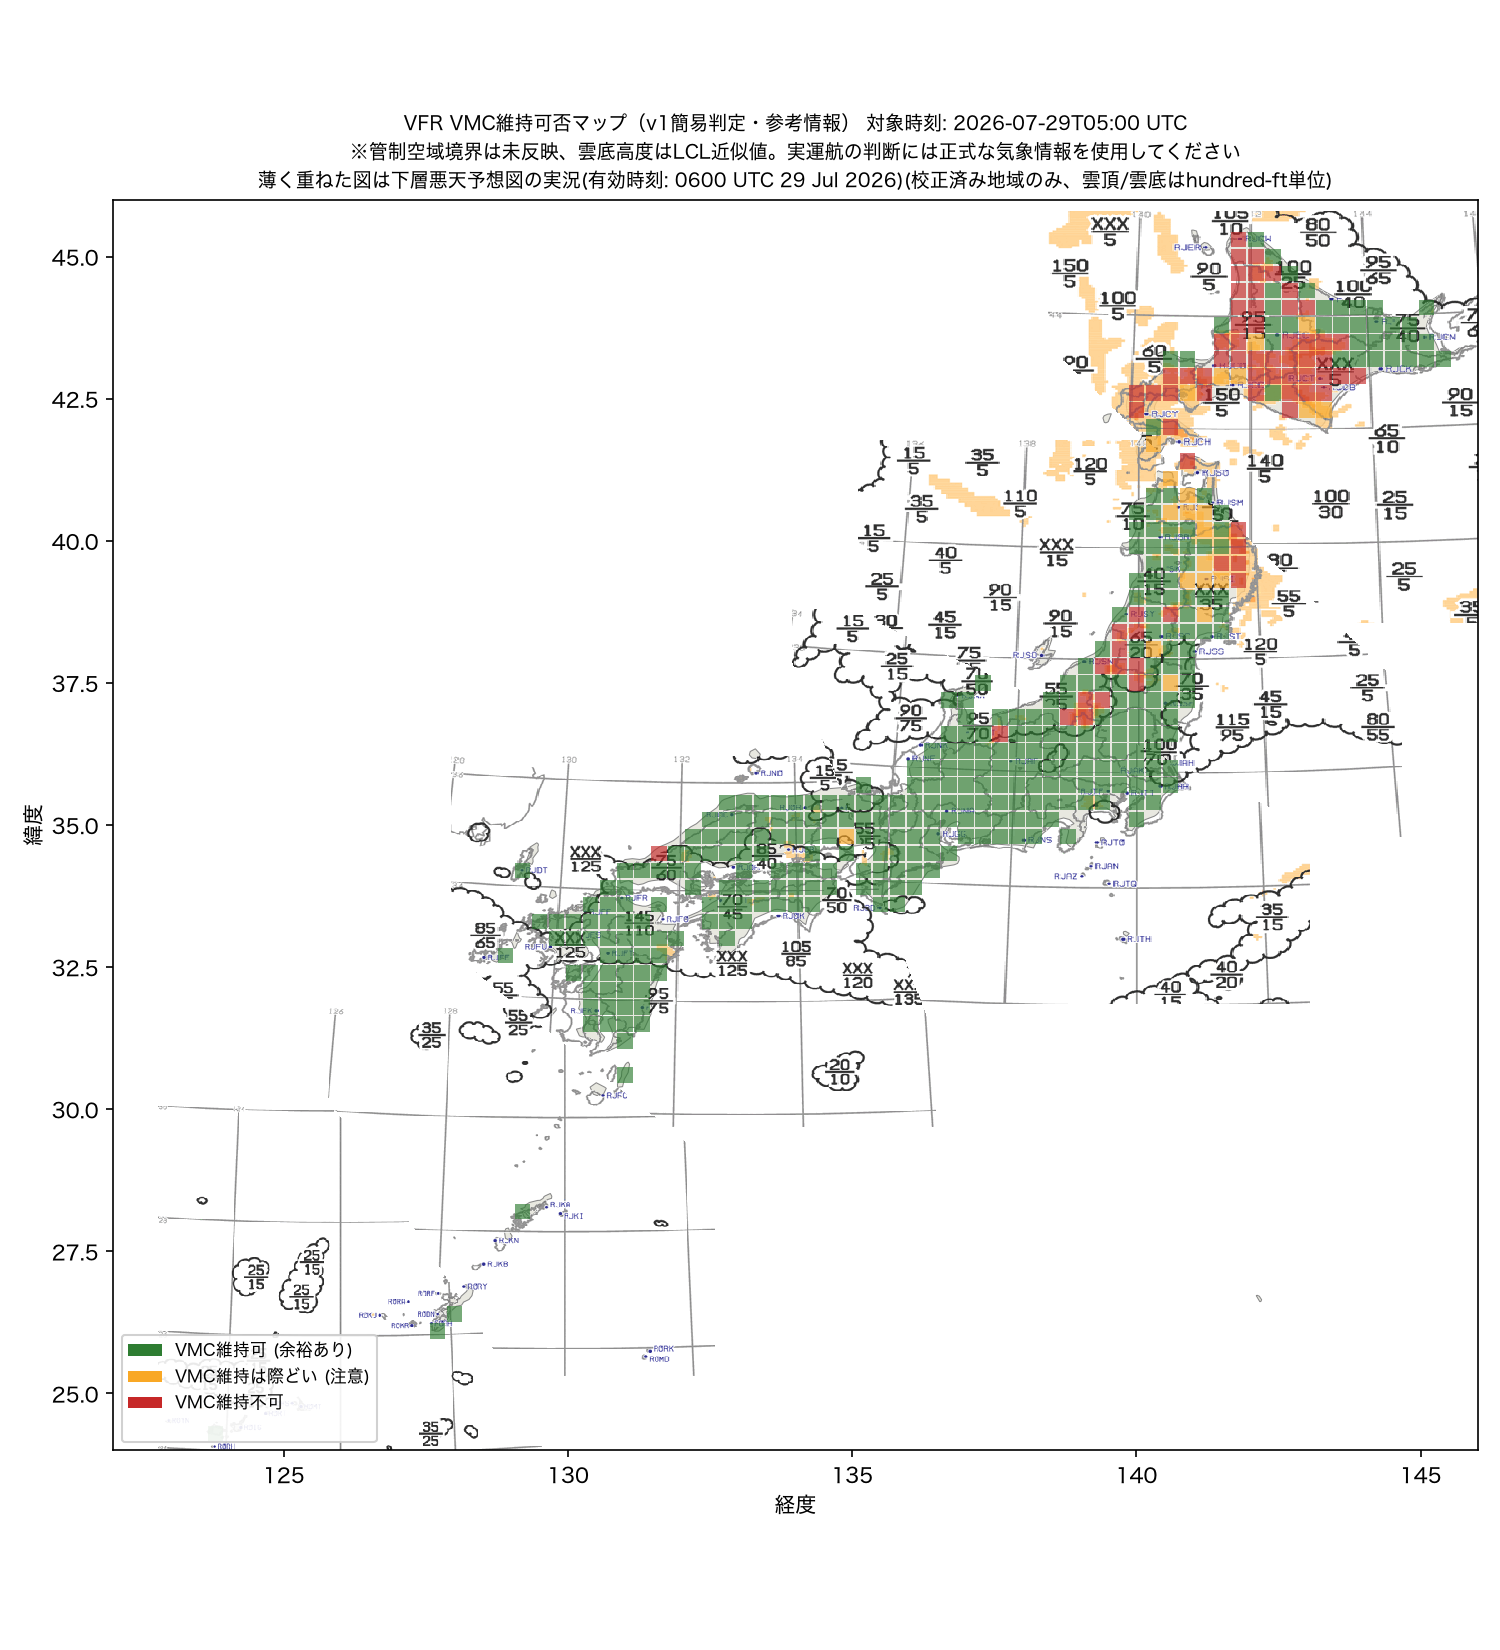
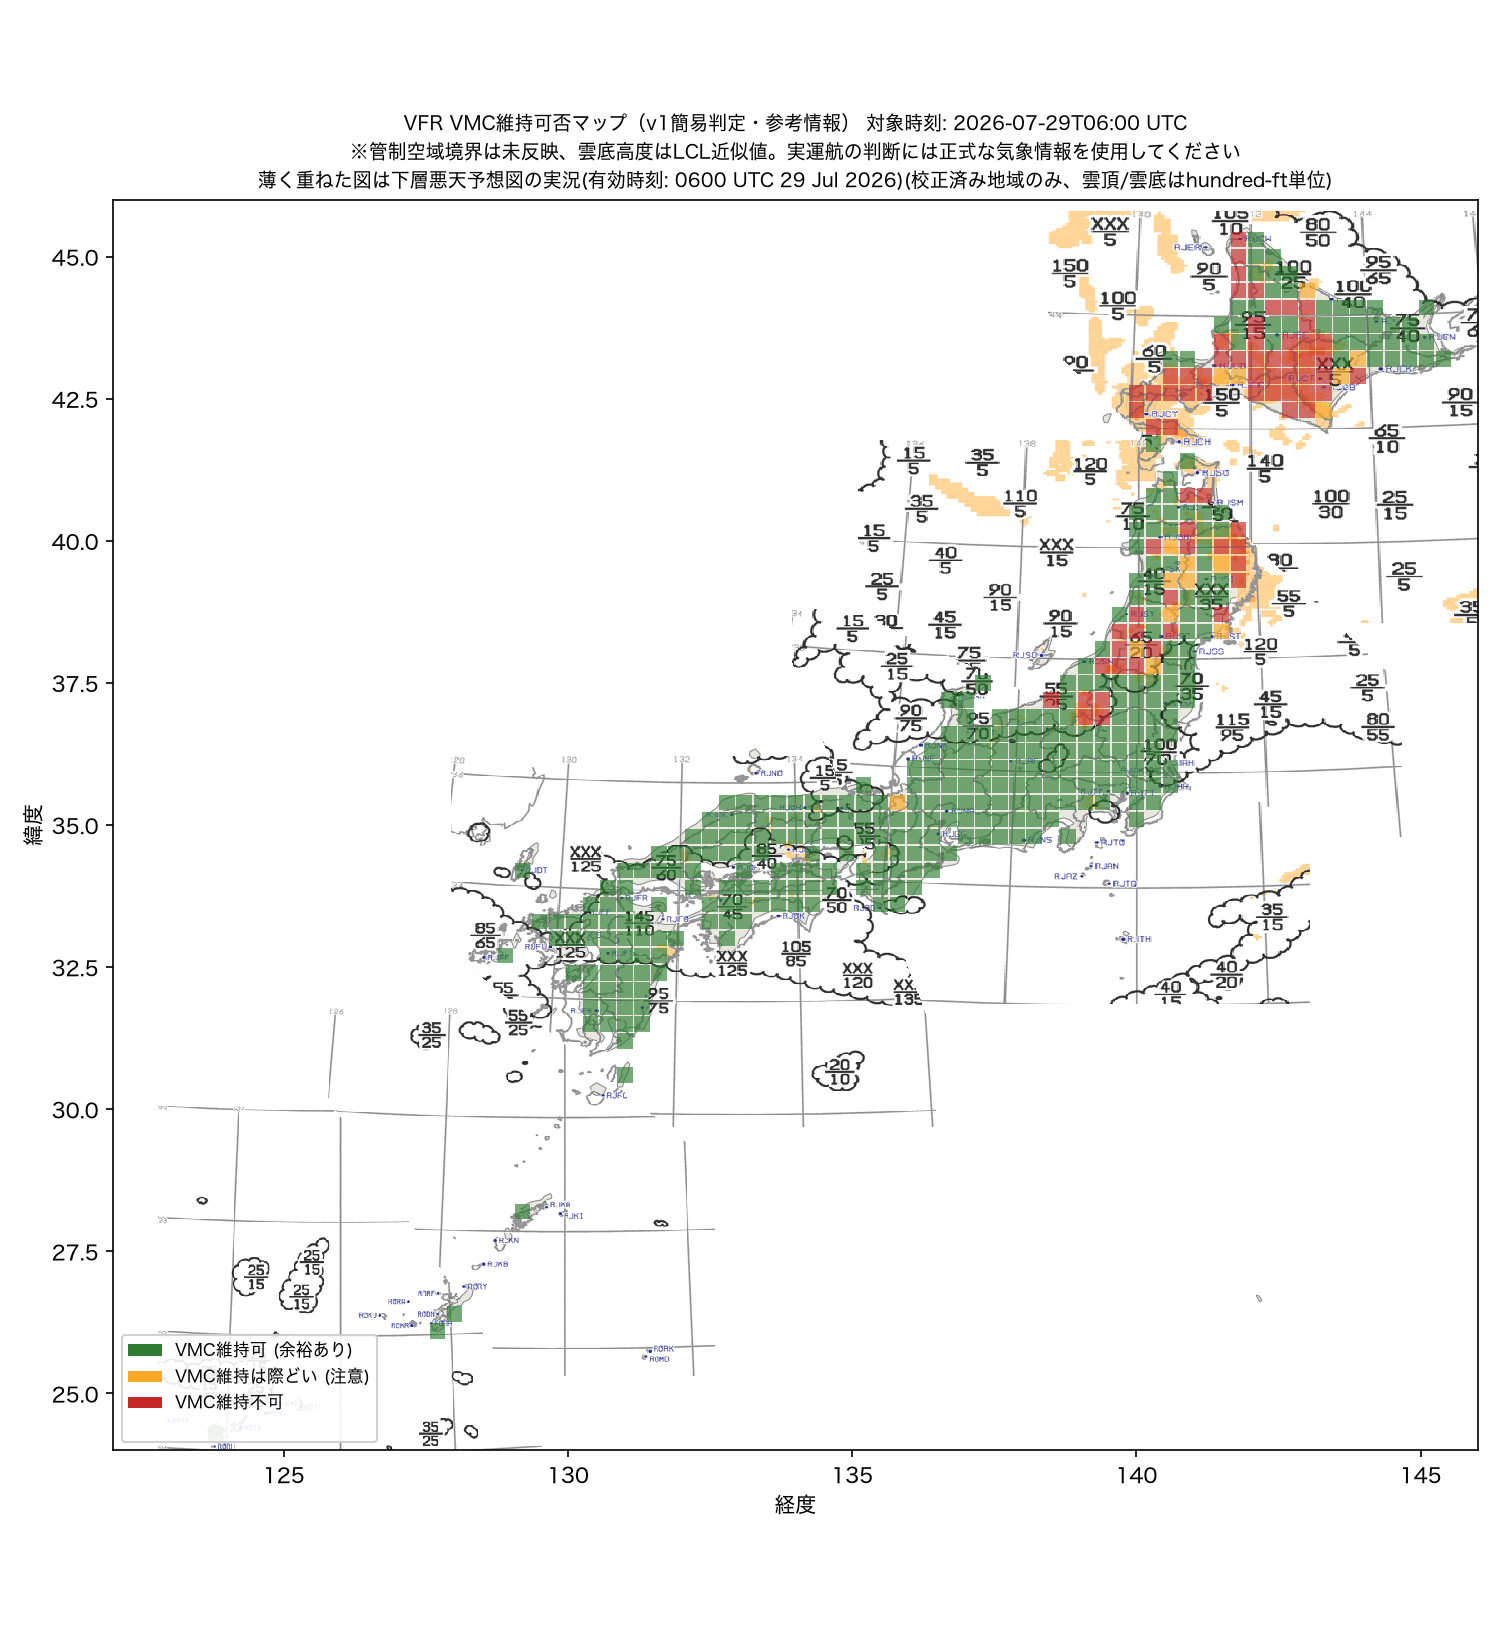
Update VMC map

diff --git a/index.html b/index.html
@@ -3,7 +3,7 @@
 <head>
 <meta charset="utf-8">
 <meta name="viewport" content="width=device-width, initial-scale=1">
-<title>VFR VMC 維持可否マップ (対象時刻: 2026-07-29T05:00 UTC)</title>
+<title>VFR VMC 維持可否マップ (対象時刻: 2026-07-29T06:00 UTC)</title>
 <style>
   :root {
     --bg: #eef1f5; --surface: #ffffff; --text: #1b2530; --text-muted: #5b6b7d;
@@ -95,7 +95,7 @@
     <h1>VFR VMC 維持可否マップ</h1>
     <p class="subtitle">日本全国、地形と雲底の隙間からVMC(視認気象状態)を維持できるかを判定した参考マップです。v1簡易判定につき、実運航の判断には正式な気象情報を使用してください。</p>
     <div class="chips">
-      <span class="chip">気象予報 対象時刻 <b>2026-07-29T05:00 UTC</b></span>
+      <span class="chip">気象予報 対象時刻 <b>2026-07-29T06:00 UTC</b></span>
       <span class="chip">下層悪天予想図 有効時刻 <b>0600 UTC 29 Jul 2026</b></span>
     </div>
   </header>
